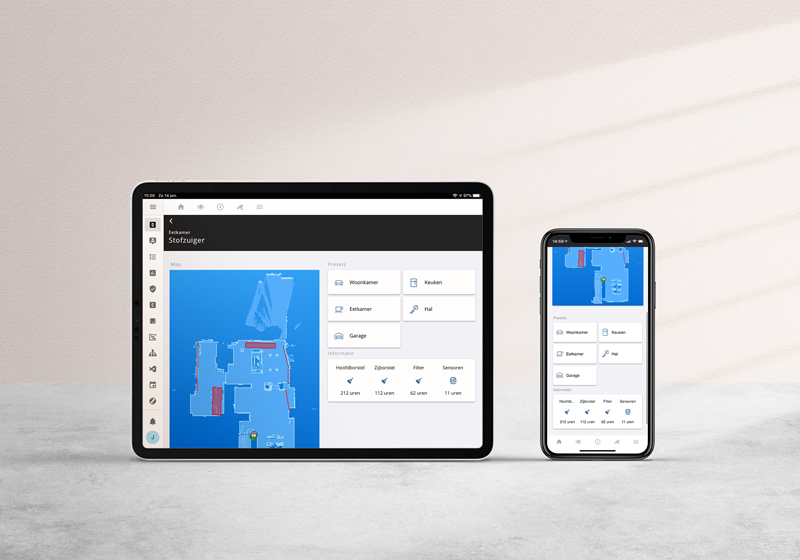
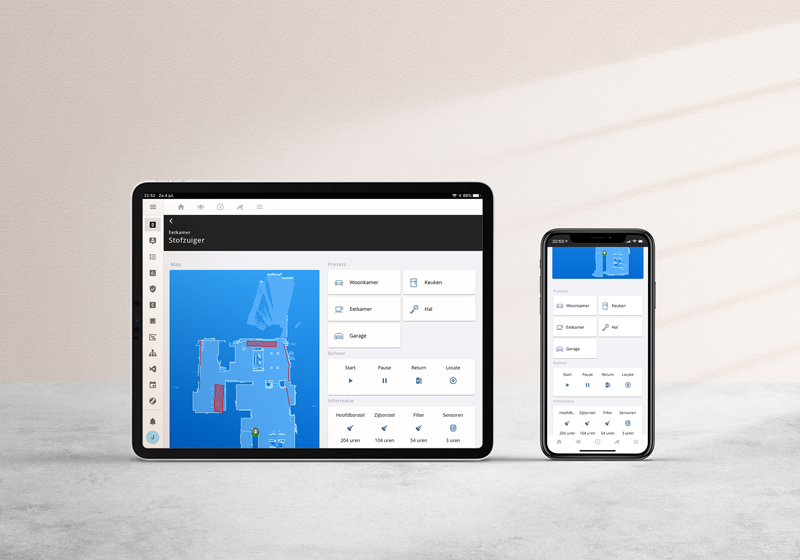
Vacuum addon v1.0.3

diff --git a/rooms/vacuum/README.md b/rooms/vacuum/README.md
@@ -34,6 +34,19 @@ To use this add-on in your Dwains Theme, add the following to your `rooms.yaml` 
               icon: fal:key-skeleton
             - room: Garage
               icon: fal:warehouse
+          controls:
+            - name: Start
+              service: vacuum.start
+              icon: mdi:play
+            - name: Pause
+              service: vacuum.pause
+              icon: mdi:pause
+            - name: Return
+              service: vacuum.return_to_base
+              icon: mdi:ev-station
+            - name: Locate
+              service: vacuum.locate
+              icon: mdi:map-marker-circle
           sensors:
             - name: Main brush
               sensor: sensor.vacuum_main_brush_left
@@ -58,6 +71,8 @@ To use this add-on in your Dwains Theme, add the following to your `rooms.yaml` 
 
 
 ### Changelog
+#### 1.0.3
+- Add control buttons (By @thundergreen)
 #### 1.0.2
 - Add native HA translations to the button
 #### 1.0.1
